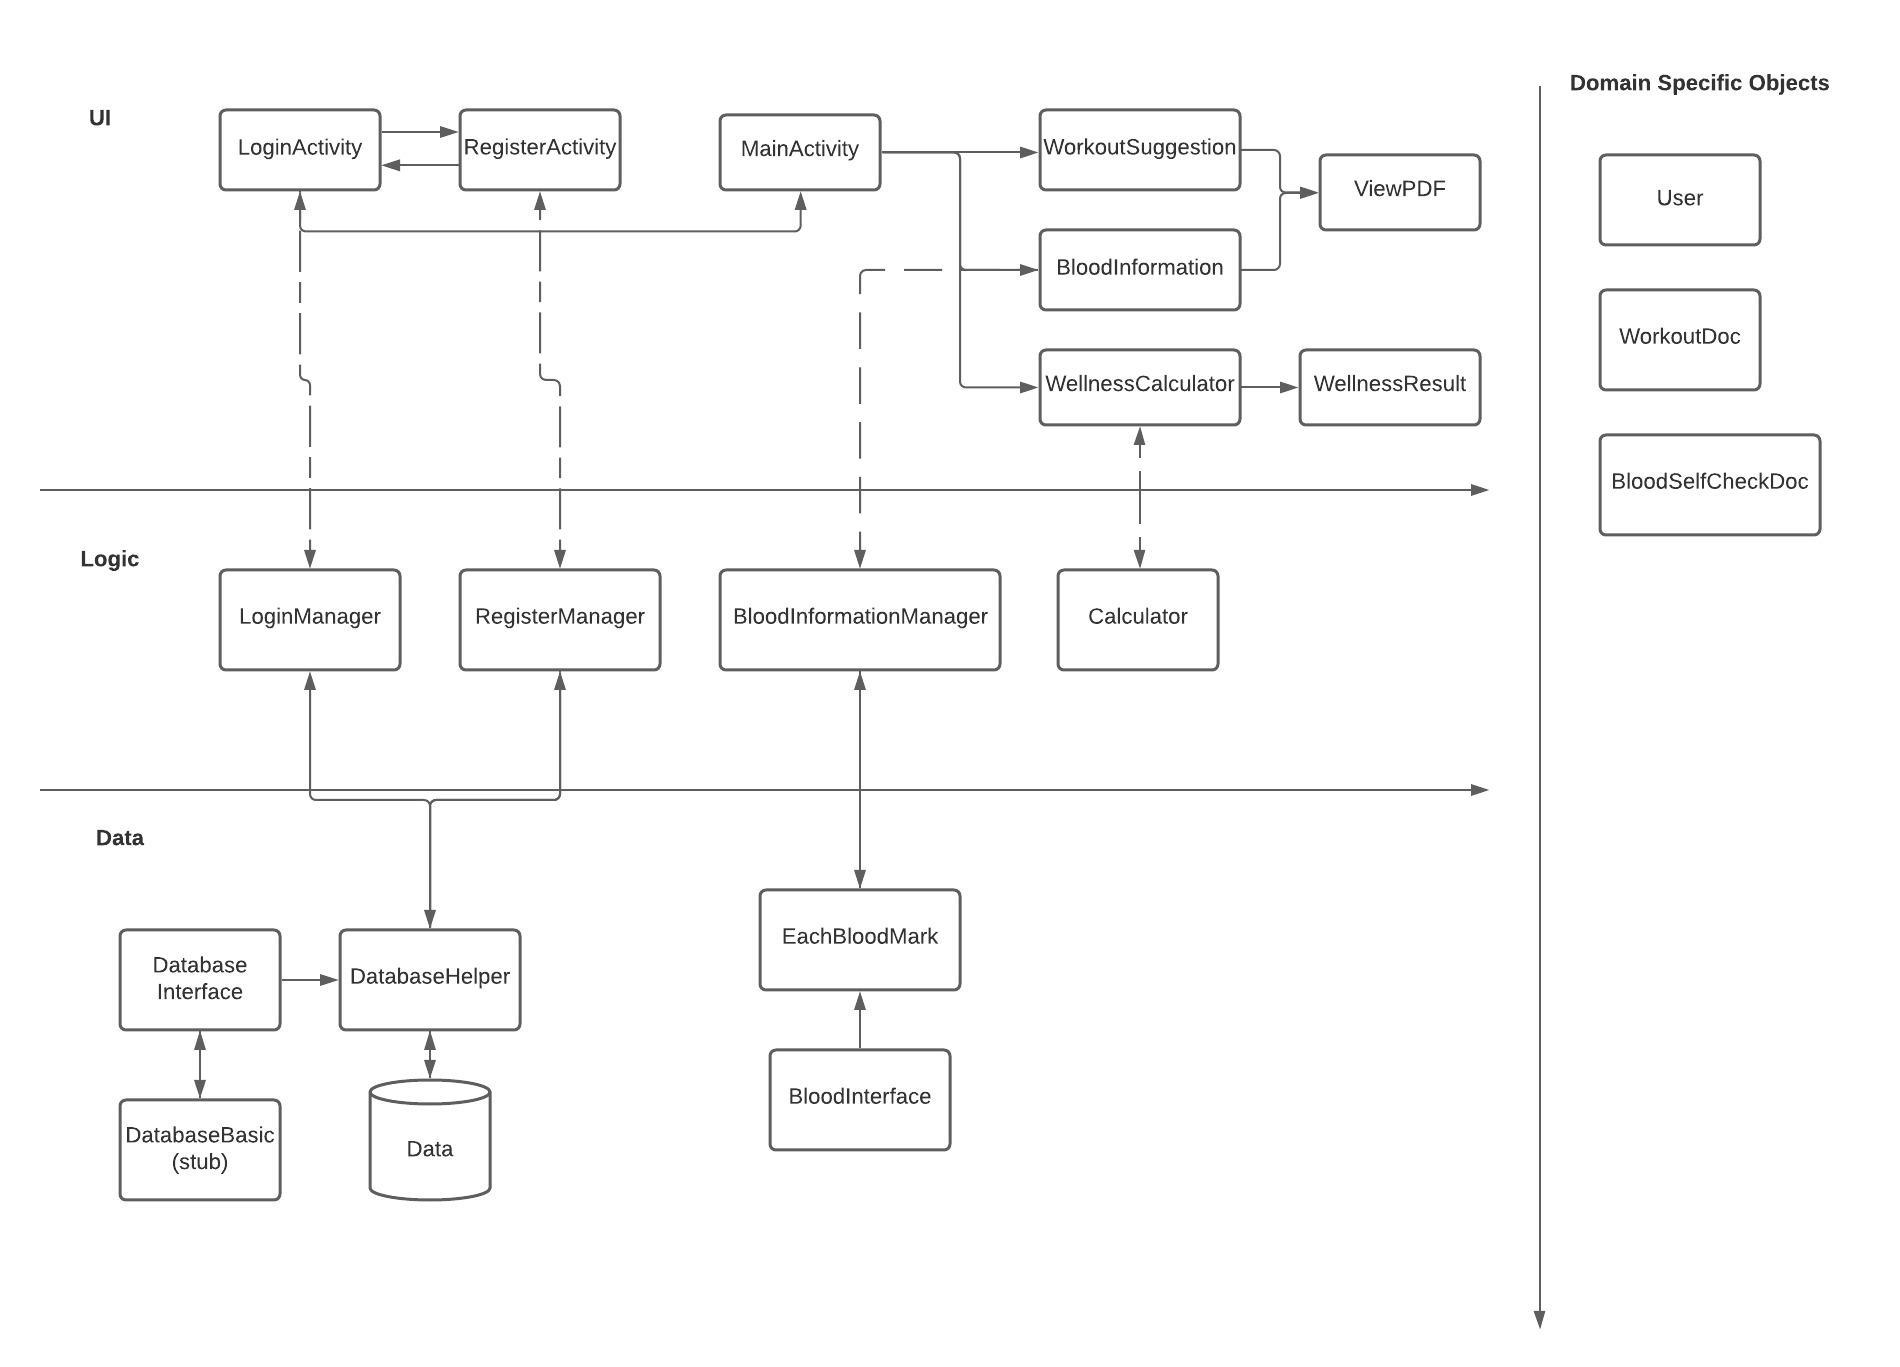
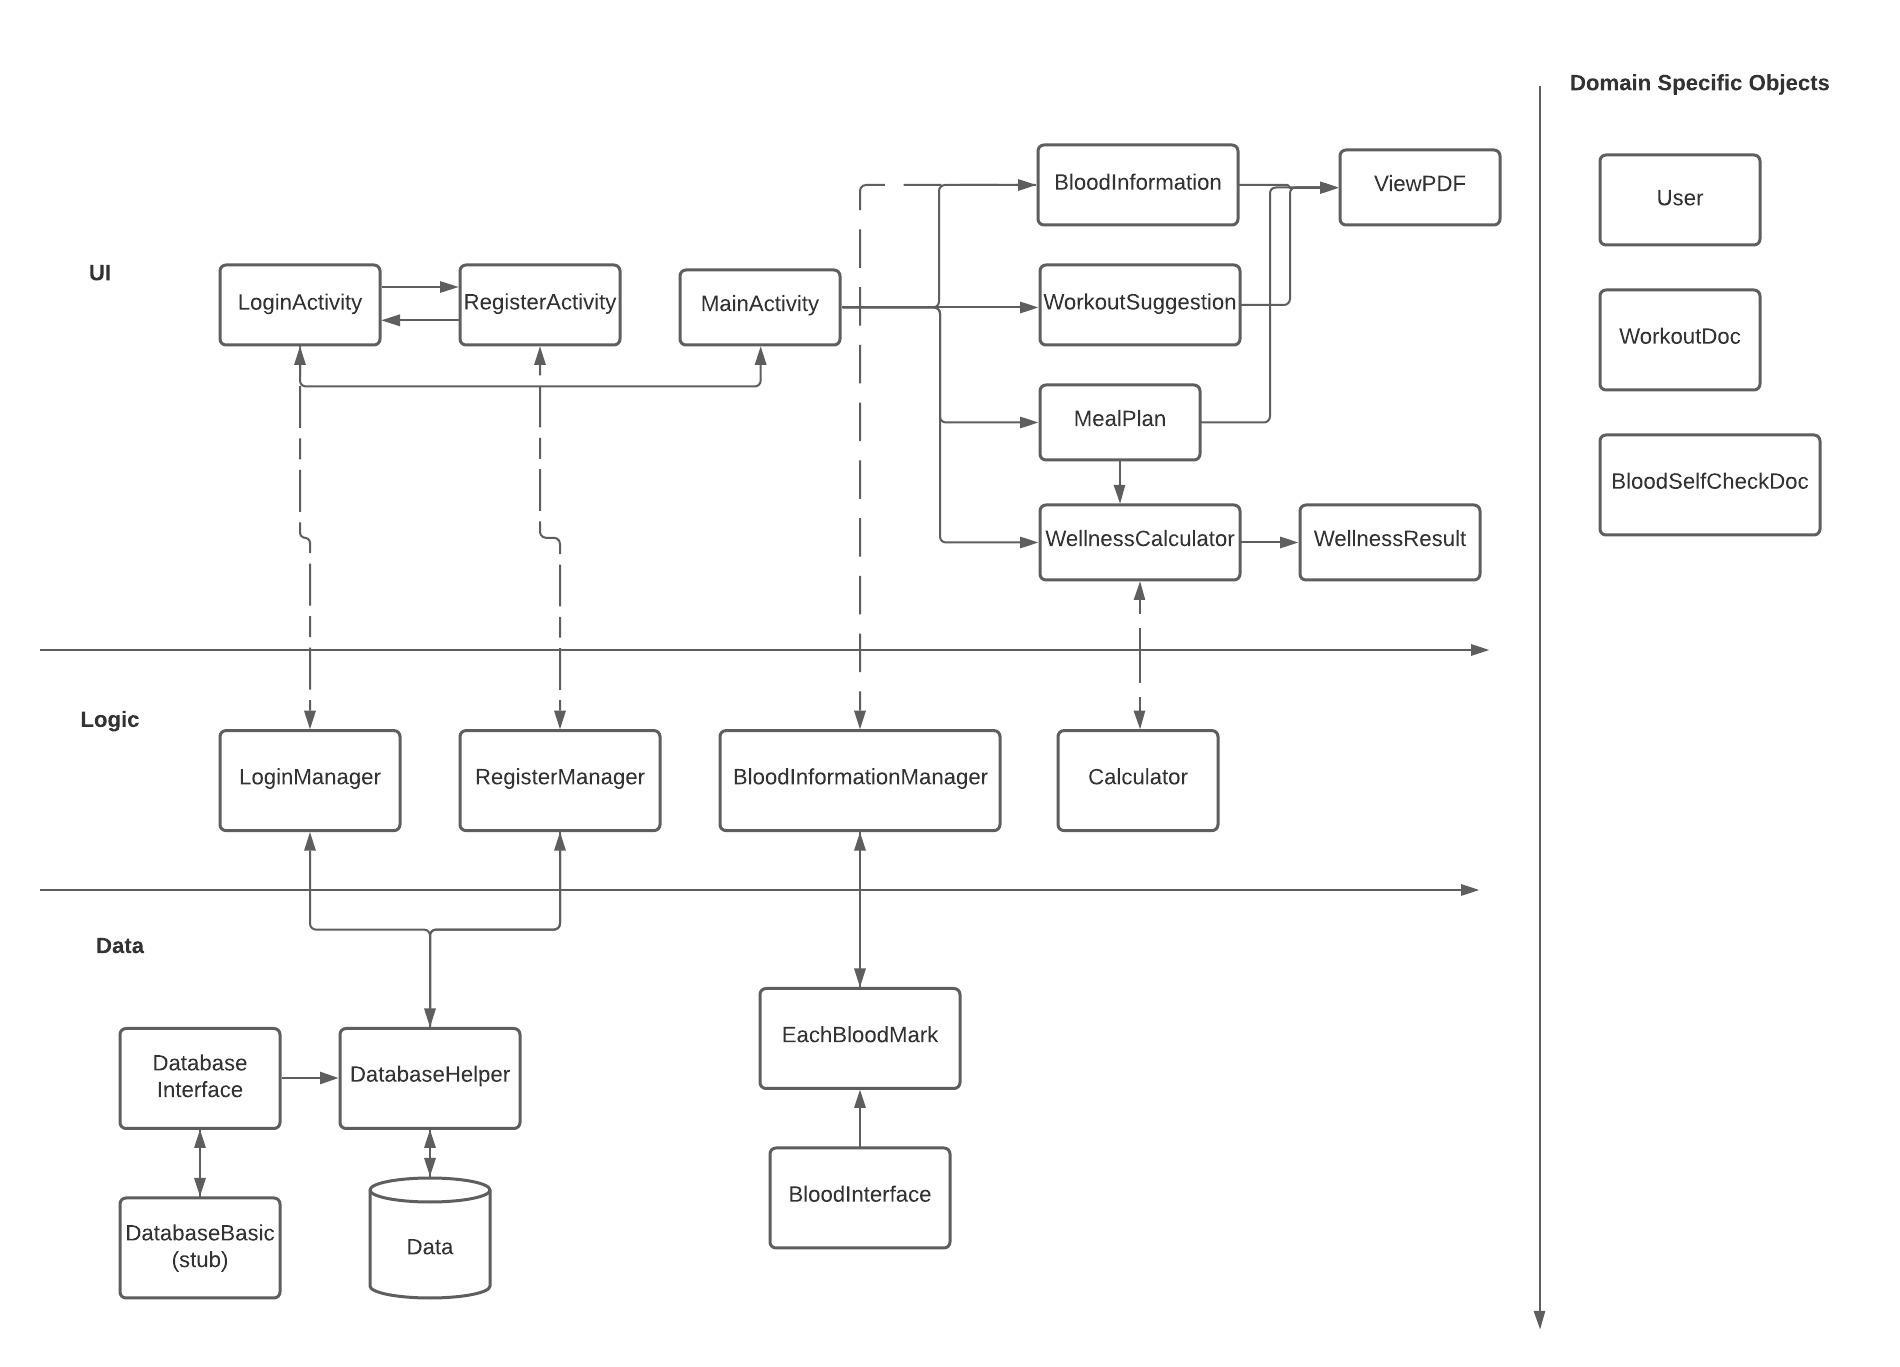
documents update
1. ARCHITECTURE.md
2. VISION.md

diff --git a/README.md b/README.md
@@ -1,19 +1,3 @@
-![Thrive Logo](ThriveLogo.jpg)
-# Thrive Application Vision Statement 
-
-Thrive will provide quick and easy access to multi-faceted tools and information that will assist the consumer in optimizing their health, well-being and performance. The application aims to strike a balance between providing a range of both personalized and generic features that are instrumental for the consumer to excel and thrive. This brings us back to our mission statement, summarizing the premise of the application. "Why settle for survival, when you can be thriving!"
-
-The application combines elements from areas of health, stress management and organization. Some of the personalized features of Thrive include workout plans, optimal food choices, blood work analysis and BMI / maintenance calories calculator. In addition, Thrive will offer more generic features including Thrive stress management tools, workout and meal timing reminders, goal checklists, dashboard for consumers to store information and a calendar for tracking workouts. For personalized features, users will first have to go through a setup process in which their relevant information is entered. The various inputs for the personalized features that will be collected from the user include their age, height, current weight, activity levels, key blood health markers, diet restrictions and favorite foods just to name a few. The described inputs help put in perspective the scope of personalization Thrive will offer to the consumers. 
-
-The application is primarily designed for individuals concerned with their health and productivity, thus looking to track their health information altogether and improve their overall health. Although Thrive is expected to be utilized by individuals of all age, Millennials and Generation Z are most likely going to be the largest demographic for this app since these groups tend to find themselves in more of a time crunch as the world gets faster paced and they end up inadvertently neglecting their health and other key elements of day to day life. Thrive is also a perfect fit for most fitness enthusiasts as it will allow them to access vital tools that are necessary in physical performance and maintaining / improving ones energy levels. In addition, as the demand for greater autonomy goes up exponentially in all facets of life, people are looking more than ever towards resources / applications that will enable them and empower them. Thrive is a perfect candidate for this growing segment of the market. 
-
-Thrive will be valuable to anyone requiring some direction in achieving their health and wellness related goals; whether it's regarding losing weight, improving athletic performance or simply managing their nutritional requirements. It provides users with the convenience of having a spectrum of self improvement features, most of which are personalized to the user, laid out for them to use in an easy to use, user friendly interface. What also gives us a unique edge over any possible competitors in this space is how Thrive is able to uniquely group different areas of self development in a harmonious fashion. Eliminating the need for juggling between multiple applications and sources of information will allow the consumer to enjoy a great deal of convenience and quality resources all in our application. 
-
-## The success criteria of our project will be based on the following criteria being met:
-* Users enter over 50% of the possible personalized health-related fields. This will measure if the app is serving its intended purpose,
-* Users are using the application after 14 days of having initially accessing/downloading it.
-* At least one-third of users would recommend the application to friends and family.
-* After 30 days of use, users report an improvement of either their physical, mental or overall wellbeing. 
 
 ## Branching Strategy
 Git Flow model or the successfull Git branching model.<br/>

diff --git a/VISION.md b/VISION.md
@@ -1,0 +1,16 @@
+![Thrive Logo](ThriveLogo.jpg)
+# Thrive Application Vision Statement 
+
+Thrive will provide quick and easy access to multi-faceted tools and information that will assist the consumer in optimizing their health, well-being and performance. The application aims to strike a balance between providing a range of both personalized and generic features that are instrumental for the consumer to excel and thrive. This brings us back to our mission statement, summarizing the premise of the application. "Why settle for survival, when you can be thriving!"
+
+The application combines elements from areas of health, stress management and organization. Some of the personalized features of Thrive include workout plans, optimal food choices, blood work analysis and BMI / maintenance calories calculator. In addition, Thrive will offer more generic features including Thrive stress management tools, workout and meal timing reminders, goal checklists, dashboard for consumers to store information and a calendar for tracking workouts. For personalized features, users will first have to go through a setup process in which their relevant information is entered. The various inputs for the personalized features that will be collected from the user include their age, height, current weight, activity levels, key blood health markers, diet restrictions and favorite foods just to name a few. The described inputs help put in perspective the scope of personalization Thrive will offer to the consumers. 
+
+The application is primarily designed for individuals concerned with their health and productivity, thus looking to track their health information altogether and improve their overall health. Although Thrive is expected to be utilized by individuals of all age, Millennials and Generation Z are most likely going to be the largest demographic for this app since these groups tend to find themselves in more of a time crunch as the world gets faster paced and they end up inadvertently neglecting their health and other key elements of day to day life. Thrive is also a perfect fit for most fitness enthusiasts as it will allow them to access vital tools that are necessary in physical performance and maintaining / improving ones energy levels. In addition, as the demand for greater autonomy goes up exponentially in all facets of life, people are looking more than ever towards resources / applications that will enable them and empower them. Thrive is a perfect candidate for this growing segment of the market. 
+
+Thrive will be valuable to anyone requiring some direction in achieving their health and wellness related goals; whether it's regarding losing weight, improving athletic performance or simply managing their nutritional requirements. It provides users with the convenience of having a spectrum of self improvement features, most of which are personalized to the user, laid out for them to use in an easy to use, user friendly interface. What also gives us a unique edge over any possible competitors in this space is how Thrive is able to uniquely group different areas of self development in a harmonious fashion. Eliminating the need for juggling between multiple applications and sources of information will allow the consumer to enjoy a great deal of convenience and quality resources all in our application. 
+
+## The success criteria of our project will be based on the following criteria being met:
+* Users enter over 50% of the possible personalized health-related fields. This will measure if the app is serving its intended purpose,
+* Users are using the application after 14 days of having initially accessing/downloading it.
+* At least one-third of users would recommend the application to friends and family.
+* After 30 days of use, users report an improvement of either their physical, mental or overall wellbeing. 

diff --git a/architecture.md b/architecture.md
@@ -9,6 +9,7 @@
 - MainActivity : The main dashboard of the app where each card navigates to each of the features.
 - WorkoutSuggestion : Feature UI for workout suggestions to users.
 - BloodInformation : Feature UI for providing general information about some of the main blood markers, possible symptoms when it is out of the normal range, and suggestions that users can look up.
+- MealPlan : Feature UI for providing meal plans based on the users' maintenance calories and dietary preference (vegetarian or non-vegetarian).
 - WellnessCalculator : Feature UI for users to see their current BMI and calorie intake to maintain their weight.
 - WellnessResult : Result from the wellness calculator.
 - ViewPDF : Class to show documents from the WorkoutDoc & BloodSelfCheckDoc objects.
